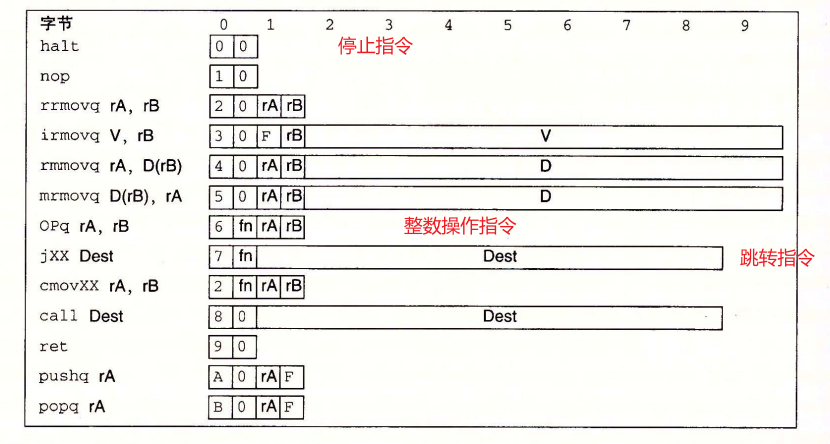
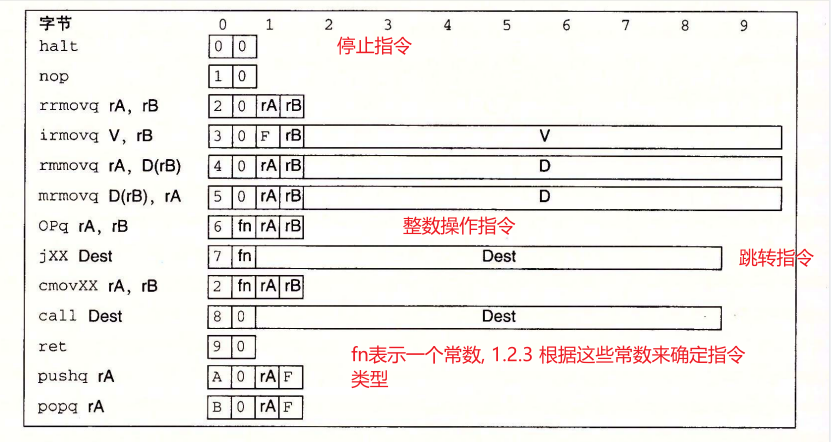
9.30 09:01

diff --git a/计算机基础/深入理解计算机系统/深入理解计算机系统.md b/计算机基础/深入理解计算机系统/深入理解计算机系统.md
@@ -862,9 +862,11 @@ Java的目标代码是一种特殊的二进制表示,称为java字节码. 这种
 
 ![](./71.png)
 
+**rA,rB : **寄存器指示符字节(register specifier byte),指定一个或两个寄存器,根据指令类型,可以指定用于数据源和目的的寄存器,或是用于地址计算的基址寄存器.如果只需要一个寄存器,那么另一个会设置成0xF
+
 #### 4.1.3指令编码
 
-每条指令需要1~10字节不等.**每条指令的第一个字节表明指令的类型. 这个字节分为两个部分,每部分4位: 高4位是代码部分,第四位是功能部分**
+每条指令需要1~10字节不等.**每条指令的第一个字节表明指令的类型. 这个字节分为两个部分,每部分4位: 高4位是代码部分,第四位是功能部分, 也就是上图的fn位置**
 
 ![](./72.png)
 
